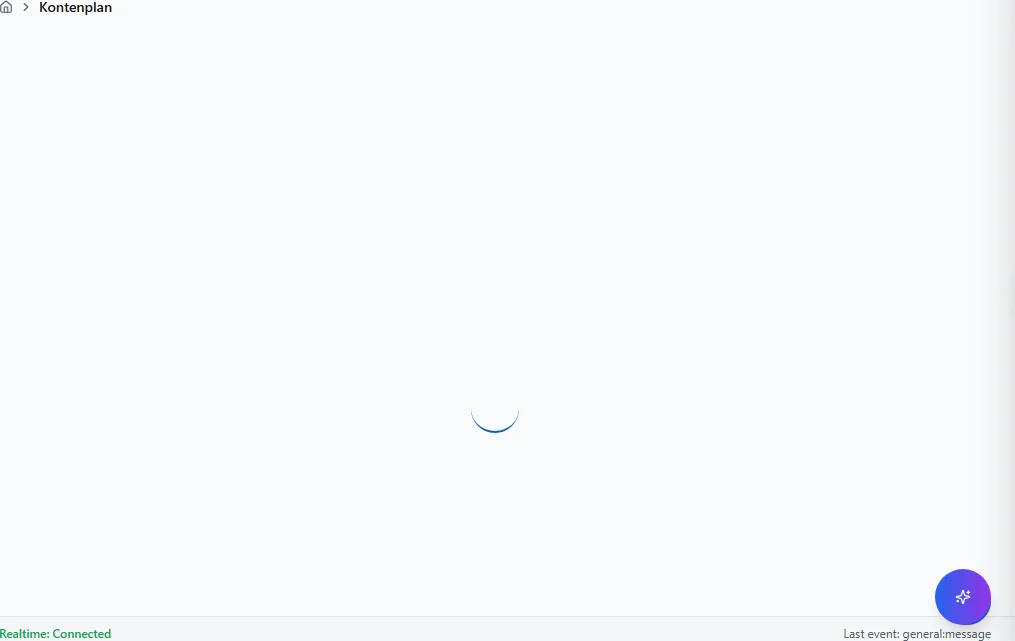
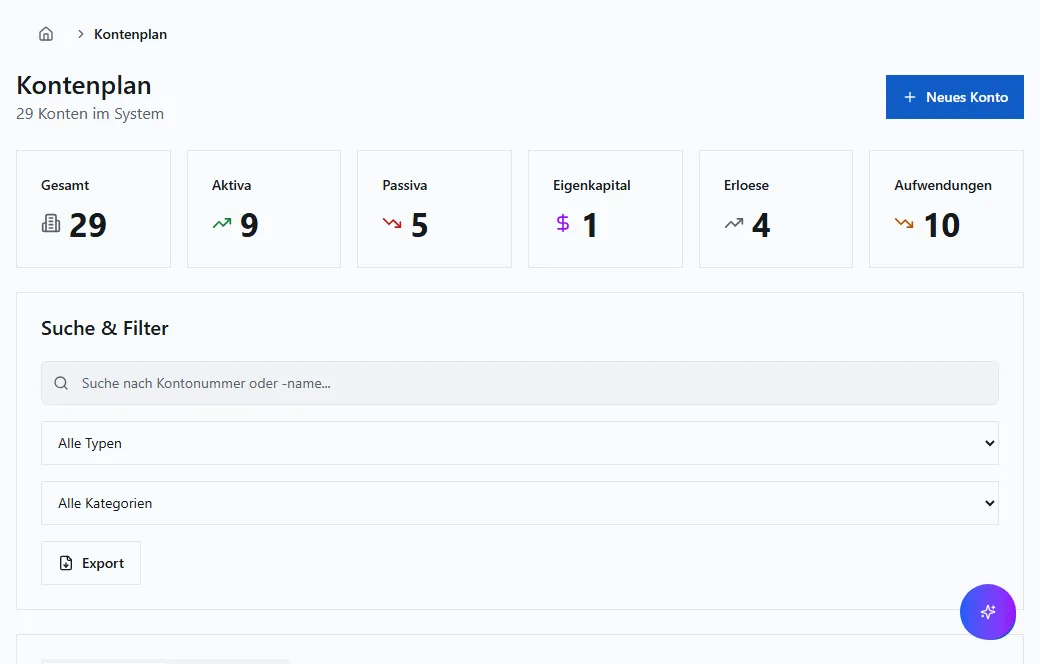
docs(handbuch): abgeloeste Mahn- und Kontenplanmasken nachgezogen
Das Kapitel Finanzbuchhaltung nannte fuer vier Wege geloeschte Masken und zeigte
deren Bildschirmfotos vom Juli. Kapitel neu erzeugt, Mahnlauf und Kontenplan
frisch aufgenommen. Die uebrigen Kapitel bleiben unberuehrt: Der Generator
haette dort handgeschriebenen Inhalt geloescht.

diff --git a/docs/benutzerhandbuch/finanzbuchhaltung.md b/docs/benutzerhandbuch/finanzbuchhaltung.md
@@ -49,7 +49,7 @@ GoBD-konform dokumentiert.
 
 ## Maskenregister
 
-Vollständige Abdeckung: **122** App-Routen
+Vollständige Abdeckung: **123** App-Routen
 (0 explizit in der Sidebar-Navigation).
 
 | Maske | Route | Modul |
@@ -141,7 +141,7 @@ Vollständige Abdeckung: **122** App-Routen
 | Debitoren Stamm | `/finance/debitoren-stamm` | `@/pages/finance/debitoren-stamm` |
 | :Id | `/finance/debitoren/:id` | `@/pages/finance/debitoren-stamm` |
 | New | `/finance/debitoren/new` | `@/pages/finance/debitoren-stamm` |
-| Dunning | `/finance/dunning` | `@/pages/finance/mahnwesen` |
+| Dunning | `/finance/dunning` | `@/pages/finance/mahnlauf` |
 | Dunning Editor | `/finance/dunning-editor` | `@/pages/finance/dunning-editor` |
 | Invoice Form | `/finance/invoice-form` | `@/pages/finance/invoice-form` |
 | Invoices | `/finance/invoices` | `@/pages/finance/invoices-list` |
@@ -149,13 +149,13 @@ Vollständige Abdeckung: **122** App-Routen
 | Neu | `/finance/invoices/neu` | `@/pages/finance/invoice-form` |
 | New | `/finance/invoices/new` | `@/pages/finance/invoice-form` |
 | Kasse | `/finance/kasse` | `@/pages/finance/kasse` |
-| Kontenplan | `/finance/kontenplan` | `@/pages/finance/kontenplan` |
+| Kontenplan | `/finance/kontenplan` | `@/pages/finance/chart-of-accounts` |
 | :Id | `/finance/kreditor/:id` | `@/pages/finance/kreditor-native` |
 | Kreditoren | `/finance/kreditoren` | `@/pages/finance/kreditoren-stamm` |
 | Kreditoren Stamm | `/finance/kreditoren-stamm` | `@/pages/finance/kreditoren-stamm` |
 | Lastschriften Debitoren | `/finance/lastschriften-debitoren` | `@/pages/finance/lastschriften-debitoren` |
 | Mahnlauf | `/finance/mahnlauf` | `@/pages/finance/mahnlauf` |
-| Mahnwesen | `/finance/mahnwesen` | `@/pages/finance/mahnwesen` |
+| Mahnwesen | `/finance/mahnwesen` | `@/pages/finance/mahnlauf` |
 | Nebenbuch Abstimmung | `/finance/nebenbuch-abstimmung` | `@/pages/finance/nebenbuch-abstimmung` |
 | Offene Posten | `/finance/offene-posten` | `@/pages/fibu/offene-posten` |
 | Offene Posten Cockpit | `/finance/offene-posten-cockpit` | `@/pages/finance/offene-posten-cockpit` |
@@ -166,6 +166,7 @@ Vollständige Abdeckung: **122** App-Routen
 | Payments | `/finance/payments` | `@/pages/finance/payment-matching` |
 | Periodenabschluss | `/finance/periodenabschluss` | `@/pages/finance/periodenabschluss` |
 | Periods | `/finance/periods` | `@/pages/finance/periods` |
+| Rechnungstapel | `/finance/rechnungstapel` | `@/pages/finance/rechnungstapel` |
 | Reports | `/finance/reports` | `@/pages/finance/reports` |
 | Skonto Optimizer | `/finance/skonto-optimizer` | `@/pages/finance/skonto-optimizer` |
 | Steuerschluessel | `/finance/steuerschluessel` | `@/pages/finance/steuerschluessel` |
@@ -175,7 +176,7 @@ Vollständige Abdeckung: **122** App-Routen
 | Zahlungseingang | `/finance/zahlungseingang` | `@/pages/finance/zahlungseingang` |
 | Zahlungslauf Kreditoren | `/finance/zahlungslauf-kreditoren` | `@/pages/finance/zahlungslauf-kreditoren` |
 | Liquiditaet | `/finanzplanung/liquiditaet` | `@/pages/finanzplanung/liquiditaet` |
-| Mahnlauf | `/mahnwesen/mahnlauf` | `@/pages/mahnwesen/mahnlauf` |
+| Mahnlauf | `/mahnwesen/mahnlauf` | `@/pages/finance/mahnlauf` |
 
 ## Masken im Detail
 
@@ -2445,7 +2446,7 @@ Für jede Route: Navigation, Bearbeitung, Ergebnis und typische Fehler.
 
 ### Dunning
 
-**Route:** `/finance/dunning` · **Modul:** `@/pages/finance/mahnwesen`
+**Route:** `/finance/dunning` · **Modul:** `@/pages/finance/mahnlauf`
 
 **Ziel:** Dunning in VALEO NeuroERP öffnen, Daten prüfen oder erfassen und das Ergebnis in Liste bzw. Folgebeleg kontrollieren.
 
@@ -2653,7 +2654,7 @@ Für jede Route: Navigation, Bearbeitung, Ergebnis und typische Fehler.
 
 ### Kontenplan
 
-**Route:** `/finance/kontenplan` · **Modul:** `@/pages/finance/kontenplan`
+**Route:** `/finance/kontenplan` · **Modul:** `@/pages/finance/chart-of-accounts`
 
 **Ziel:** Kontenplan in VALEO NeuroERP öffnen, Daten prüfen oder erfassen und das Ergebnis in Liste bzw. Folgebeleg kontrollieren.
 
@@ -2809,7 +2810,7 @@ Für jede Route: Navigation, Bearbeitung, Ergebnis und typische Fehler.
 
 ### Mahnwesen
 
-**Route:** `/finance/mahnwesen` · **Modul:** `@/pages/finance/mahnwesen`
+**Route:** `/finance/mahnwesen` · **Modul:** `@/pages/finance/mahnlauf`
 
 **Ziel:** Mahnwesen in VALEO NeuroERP öffnen, Daten prüfen oder erfassen und das Ergebnis in Liste bzw. Folgebeleg kontrollieren.
 
@@ -3093,6 +3094,29 @@ Für jede Route: Navigation, Bearbeitung, Ergebnis und typische Fehler.
 | Speichern fehlgeschlagen | Pflichtfeld, Status oder Validierung | Meldung lesen, Pflichtfelder ergänzen |
 | Aktion ausgegraut | Workflow-Status oder Sperre | Vorbeleg freigeben oder Berechtigung klären |
 
+### Rechnungstapel
+
+**Route:** `/finance/rechnungstapel` · **Modul:** `@/pages/finance/rechnungstapel`
+
+**Ziel:** Rechnungstapel in VALEO NeuroERP öffnen, Daten prüfen oder erfassen und das Ergebnis in Liste bzw. Folgebeleg kontrollieren.
+
+**Schritte:**
+
+1. Sidebar oder Suche: **Rechnungstapel** öffnen (`/finance/rechnungstapel`).
+2. Filter und Spalten nach Bedarf setzen; bei ListReport Zeilen per Doppelklick oder Aktion öffnen.
+3. Bei Belegen: Kopfdaten prüfen, Positionen erfassen oder ändern, **Speichern** bzw. workflowgebundene Aktion (Freigabe, Folgebeleg) ausführen.
+4. Ergebnis in Liste, Detailansicht oder Folgebeleg verifizieren; bei Fehlern Meldungstext und Status prüfen.
+
+**Ergebnis:** Datensatz gespeichert, Liste aktualisiert oder Folgeprozess ausgelöst.
+
+**Häufige Fehler:**
+
+| Symptom | Ursache | Maßnahme |
+|---------|---------|----------|
+| Maske lädt nicht | Modul nicht freigeschaltet oder fehlende Berechtigung | Administrator: Modul/RBAC prüfen |
+| Speichern fehlgeschlagen | Pflichtfeld, Status oder Validierung | Meldung lesen, Pflichtfelder ergänzen |
+| Aktion ausgegraut | Workflow-Status oder Sperre | Vorbeleg freigeben oder Berechtigung klären |
+
 ### Reports
 
 **Route:** `/finance/reports` · **Modul:** `@/pages/finance/reports`
@@ -3329,7 +3353,7 @@ Für jede Route: Navigation, Bearbeitung, Ergebnis und typische Fehler.
 
 ### Mahnlauf
 
-**Route:** `/mahnwesen/mahnlauf` · **Modul:** `@/pages/mahnwesen/mahnlauf`
+**Route:** `/mahnwesen/mahnlauf` · **Modul:** `@/pages/finance/mahnlauf`
 
 **Ziel:** Mahnlauf in VALEO NeuroERP öffnen, Daten prüfen oder erfassen und das Ergebnis in Liste bzw. Folgebeleg kontrollieren.
 

diff --git a/docs/quality-assurance/handbuch-abgeloeste-masken-20261012.md b/docs/quality-assurance/handbuch-abgeloeste-masken-20261012.md
@@ -1,0 +1,46 @@
+# Benutzerhandbuch: abgelöste Masken nachgezogen
+
+Stand: 2026-10-12 · Slice `HANDBUCH-ABGELOESTE-MASKEN-20261012` · offener Punkt aus
+[Mahnwesen-Einzelmaske](mahnwesen-einzelmaske-abloesen-20261011.md),
+[Ein Mahnlauf](ein-mahnlauf-20261011.md) und
+[Kontenplan-Hülle](kontenplan-huelle-abloesen-20261012.md)
+
+## Befund
+
+Das Kapitel Finanzbuchhaltung nannte für vier Wege noch gelöschte Masken und zeigte deren
+Bildschirmfotos vom Juli:
+
+| Weg | stand im Handbuch | zeigt tatsächlich |
+|---|---|---|
+| `/finance/dunning`, `/finance/mahnwesen` | `@/pages/finance/mahnwesen` | `@/pages/finance/mahnlauf` |
+| `/mahnwesen/mahnlauf` | `@/pages/mahnwesen/mahnlauf` | `@/pages/finance/mahnlauf` |
+| `/finance/kontenplan` | `@/pages/finance/kontenplan` | `@/pages/finance/chart-of-accounts` |
+
+## Lieferung
+
+- `docs/benutzerhandbuch/finanzbuchhaltung.md` aus dem Routen-Inventar neu erzeugt. Neben den vier
+  Wegen kommt dadurch `/finance/rechnungstapel` ins Kapitel (123 statt 122 Routen).
+- Sechs Bildschirmfotos frisch aufgenommen (Vite :3001, Playwright headless, Ausschnitt `main` bei
+  1280 × 720, WebP): Mahnlauf für `finance__mahnlauf`, `finance__mahnwesen`, `finance__dunning`,
+  `mahnwesen__mahnlauf`; Kontenplan für `finance__kontenplan`, `finance__chart-of-accounts`.
+  Beim Aufnehmen wurde nichts geschrieben.
+- `screenshot-manifest.json`: nur das Feld `module` dieser vier Einträge.
+
+## Bewusst nicht getan
+
+**Kein Neuerzeugen des ganzen Handbuchs.** `scripts/generate_benutzerhandbuch_full.py` hätte 14
+Kapitel geändert und dabei handgeschriebenen Inhalt gelöscht: das Feldbuch-Kapitel in
+`wissensbasis-kundenportal.md` (Schritte für Schläge und Maßnahmen, Fehlertabelle, Praxis-Nachweis)
+und den Eintrag „Moderne Bedienung" im Inhaltsverzeichnis. Diese 13 Dateien sind unverändert.
+
+## Offen
+
+- **Der Generator überschreibt Handgeschriebenes.** Solange das so ist, darf er nicht blind über
+  alle Kapitel laufen. Er braucht entweder geschützte Abschnitte oder eine Liste handgepflegter
+  Masken.
+- **13 Kapitel sind hinter dem Routen-Inventar** (neue Masken fehlen, u. a. Verkauf, CRM, Lager,
+  Futtermittel). `--check` endet davor wie danach mit Fehlerstatus; die Prüfung läuft nicht in der CI.
+- **Die Texte bleiben Schablone.** Auch für Mahnlauf und Kontenplan steht dort „Filter setzen,
+  Speichern". Was die Masken wirklich tun (Posten abwählen, Mahnlauf ausführen; Konto anlegen,
+  ändern, deaktivieren), steht nicht im Handbuch.
+- **Die übrigen rund 840 Bildschirmfotos** stammen vom 08.07.2026.

diff --git a/docs/agent-ops/active-workboard.md b/docs/agent-ops/active-workboard.md
@@ -11,15 +11,22 @@ description: Aktives Arbeits-Board fuer laufende und abgeschlossene Slices — k
 
 # Active Workboard
 
-## HANDBUCH-ABGELOESTE-MASKEN-20261012 — in Arbeit, Claude Code
+## HANDBUCH-ABGELOESTE-MASKEN-20261012 — abgeschlossen, Claude Code
 
-**Owner:** Claude Code. **Stand:** 2026-10-12. Offener Punkt aus den Abloese-Slices vom 11./12.10.
+**Owner:** Claude Code. **Stand:** abgeschlossen 2026-10-12. Offener Punkt aus den Abloese-Slices vom 11./12.10.
 **Befund:** Das Benutzerhandbuch nennt fuer `/finance/dunning`, `/finance/mahnwesen`, `/mahnwesen/mahnlauf` und
 `/finance/kontenplan` noch die geloeschten Masken und zeigt deren Bildschirmfotos. **Ziel:** Handbuch aus dem
 Routen-Inventar neu erzeugen (`scripts/generate_benutzerhandbuch_full.py`, reine Generatorausgabe — zieht
 auch fremde neue Routen nach); Mahnlauf und Kontenplan frisch aufnehmen.
 **Dateibesitz:** `docs/benutzerhandbuch/*.md` (Generatorausgabe),
 `screenshot-manifest.json` nur die Eintraege dieser Wege, sechs Bilder unter `img/`, QA-Doku.
+**Lieferung (enger als geclaimt):** nur `finanzbuchhaltung.md` neu erzeugt (vier Wege zeigen die richtige Maske,
+`/finance/rechnungstapel` kommt dazu), sechs Bilder frisch aufgenommen, vier `module`-Felder im Manifest.
+**Nicht** das ganze Handbuch: Der Generator haette in 13 weiteren Kapiteln handgeschriebenen Inhalt geloescht
+(Feldbuch-Kapitel in `wissensbasis-kundenportal.md`, Eintrag „Moderne Bedienung“ in `index.md`) — diese Dateien
+sind unveraendert. QA: `docs/quality-assurance/handbuch-abgeloeste-masken-20261012.md`. **Offen:**
+`generate_benutzerhandbuch_full.py` ueberschreibt Handgeschriebenes und darf so nicht blind laufen; 13 Kapitel
+sind hinter dem Routen-Inventar; die Texte bleiben Schablone.
 
 ## KONTENPLAN-HUELLE-ABLOESEN-20261012 — abgeschlossen, Claude Code
 
